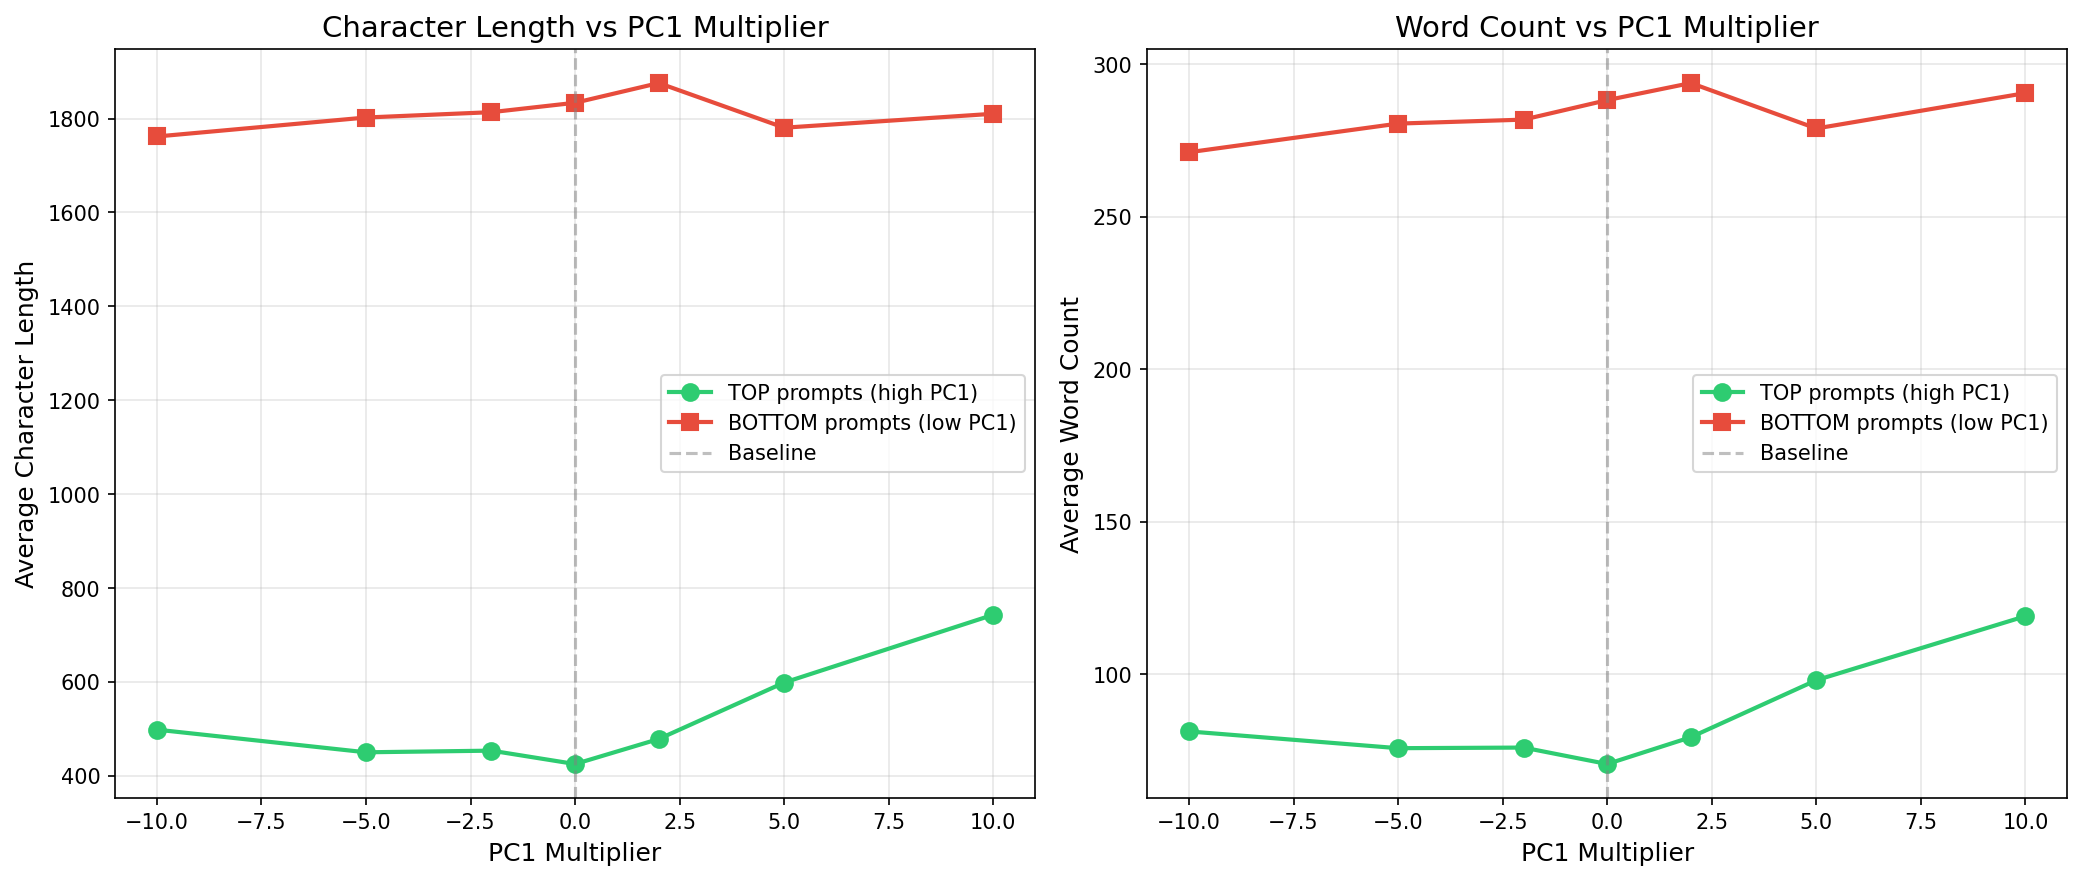
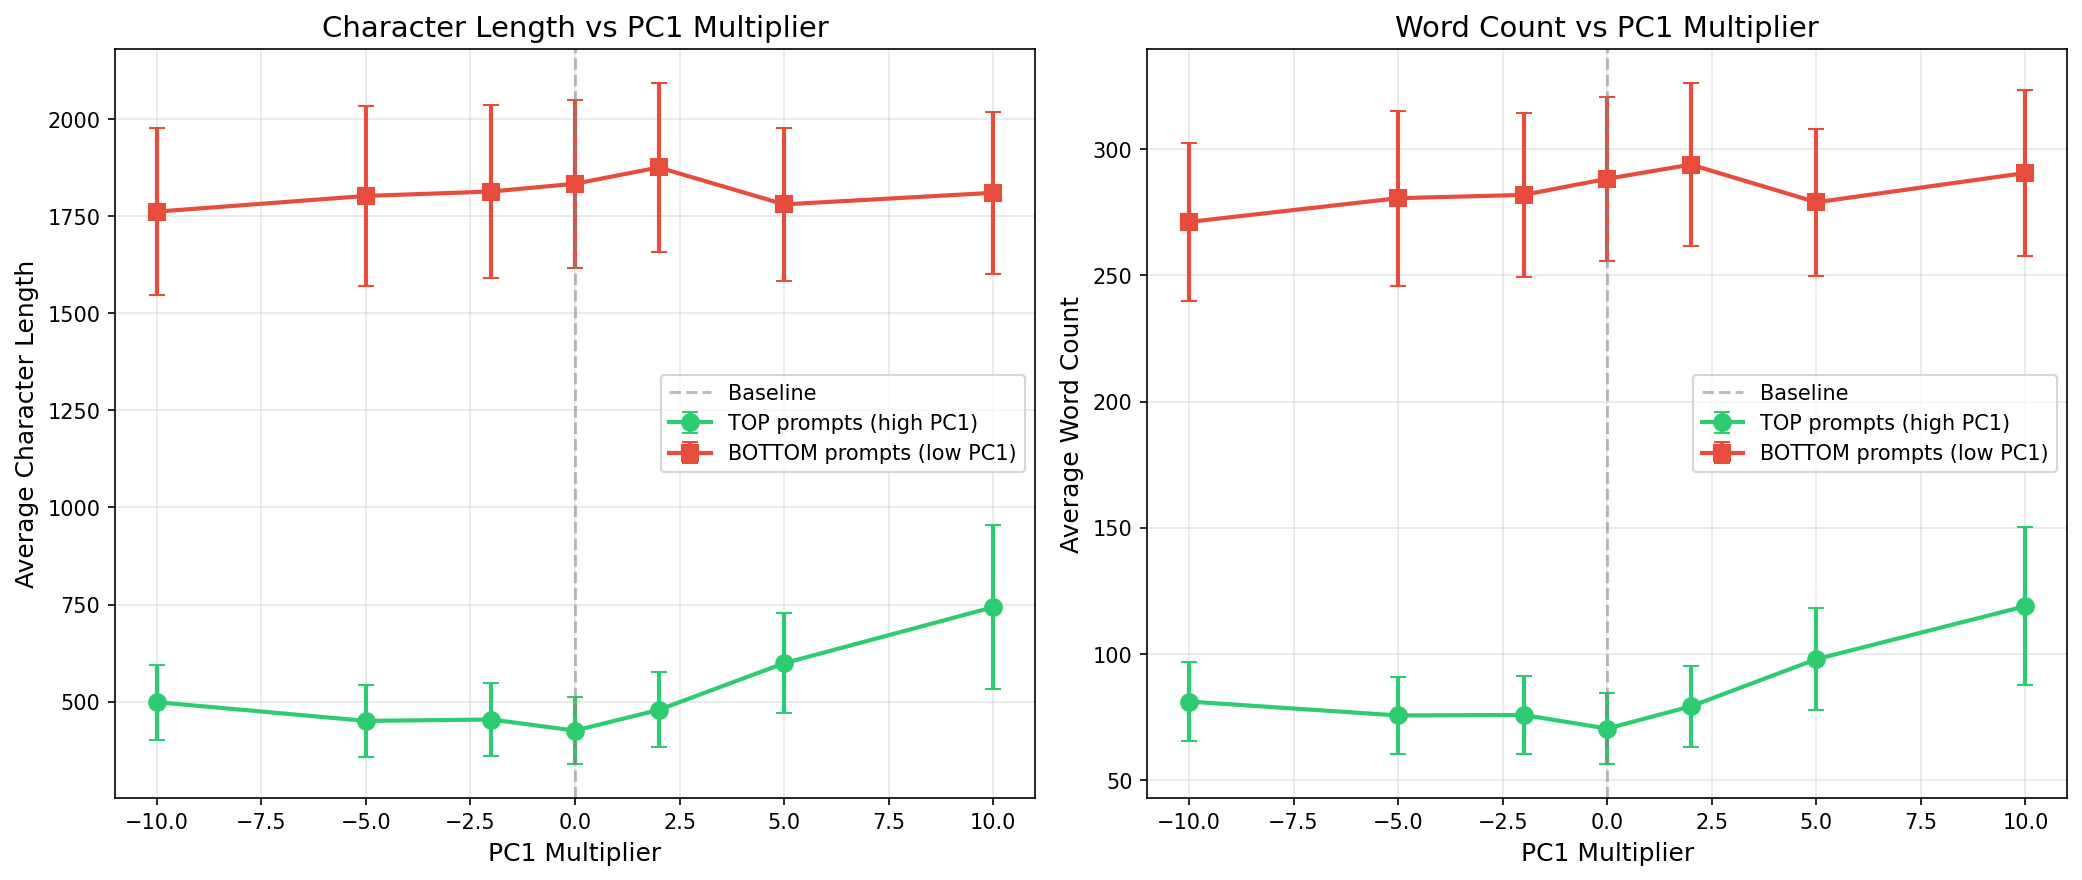
added standard error bars

diff --git a/extension/pc1_character_length_test/plot_results.py b/extension/pc1_character_length_test/plot_results.py
@@ -12,19 +12,42 @@ with open("pc1_character_length_results_10x.json", "r") as f:
 # Extract data
 multipliers = data["multipliers"]
 by_category = data["summary"]["by_category"]
+results = data["results"]
 
-# Prepare data for plotting
-top_chars = [by_category["top"][str(m)]["avg_char_length"] for m in multipliers]
-top_words = [by_category["top"][str(m)]["avg_word_count"] for m in multipliers]
-bottom_chars = [by_category["bottom"][str(m)]["avg_char_length"] for m in multipliers]
-bottom_words = [by_category["bottom"][str(m)]["avg_word_count"] for m in multipliers]
+# Compute mean and std for each category/multiplier from individual results
+def compute_stats(results, category, multipliers):
+    """Compute mean and std for char_length and word_count."""
+    char_means, char_stds = [], []
+    word_means, word_stds = [], []
+    
+    for m in multipliers:
+        m_str = str(float(m))
+        chars = []
+        words = []
+        for r in results:
+            if r["category"] == category:
+                chars.append(r["multiplier_results"][m_str]["char_length"])
+                words.append(r["multiplier_results"][m_str]["word_count"])
+        
+        char_means.append(np.mean(chars))
+        char_stds.append(np.std(chars) / np.sqrt(len(chars)))  # SEM
+        word_means.append(np.mean(words))
+        word_stds.append(np.std(words) / np.sqrt(len(words)))  # SEM
+    
+    return char_means, char_stds, word_means, word_stds
+
+# Get stats for top and bottom prompts
+top_chars, top_chars_std, top_words, top_words_std = compute_stats(results, "top", multipliers)
+bottom_chars, bottom_chars_std, bottom_words, bottom_words_std = compute_stats(results, "bottom", multipliers)
 
 # Create figure with 2 subplots
 fig, (ax1, ax2) = plt.subplots(1, 2, figsize=(14, 6))
 
-# Plot character length
-ax1.plot(multipliers, top_chars, 'o-', label='TOP prompts (high PC1)', color='#2ecc71', linewidth=2, markersize=8)
-ax1.plot(multipliers, bottom_chars, 's-', label='BOTTOM prompts (low PC1)', color='#e74c3c', linewidth=2, markersize=8)
+# Plot character length with error bars
+ax1.errorbar(multipliers, top_chars, yerr=top_chars_std, fmt='o-', label='TOP prompts (high PC1)', 
+             color='#2ecc71', linewidth=2, markersize=8, capsize=4)
+ax1.errorbar(multipliers, bottom_chars, yerr=bottom_chars_std, fmt='s-', label='BOTTOM prompts (low PC1)', 
+             color='#e74c3c', linewidth=2, markersize=8, capsize=4)
 ax1.axvline(x=0, color='gray', linestyle='--', alpha=0.5, label='Baseline')
 ax1.set_xlabel('PC1 Multiplier', fontsize=12)
 ax1.set_ylabel('Average Character Length', fontsize=12)
@@ -32,9 +55,11 @@ ax1.set_title('Character Length vs PC1 Multiplier', fontsize=14)
 ax1.legend()
 ax1.grid(True, alpha=0.3)
 
-# Plot word count
-ax2.plot(multipliers, top_words, 'o-', label='TOP prompts (high PC1)', color='#2ecc71', linewidth=2, markersize=8)
-ax2.plot(multipliers, bottom_words, 's-', label='BOTTOM prompts (low PC1)', color='#e74c3c', linewidth=2, markersize=8)
+# Plot word count with error bars
+ax2.errorbar(multipliers, top_words, yerr=top_words_std, fmt='o-', label='TOP prompts (high PC1)', 
+             color='#2ecc71', linewidth=2, markersize=8, capsize=4)
+ax2.errorbar(multipliers, bottom_words, yerr=bottom_words_std, fmt='s-', label='BOTTOM prompts (low PC1)', 
+             color='#e74c3c', linewidth=2, markersize=8, capsize=4)
 ax2.axvline(x=0, color='gray', linestyle='--', alpha=0.5, label='Baseline')
 ax2.set_xlabel('PC1 Multiplier', fontsize=12)
 ax2.set_ylabel('Average Word Count', fontsize=12)
